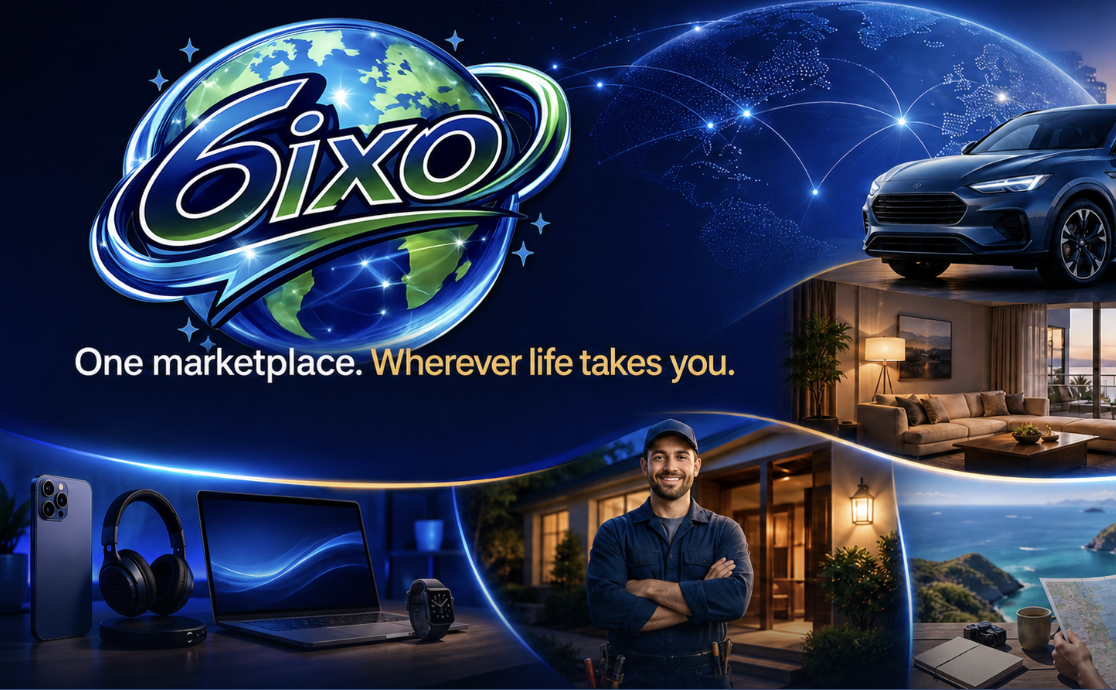
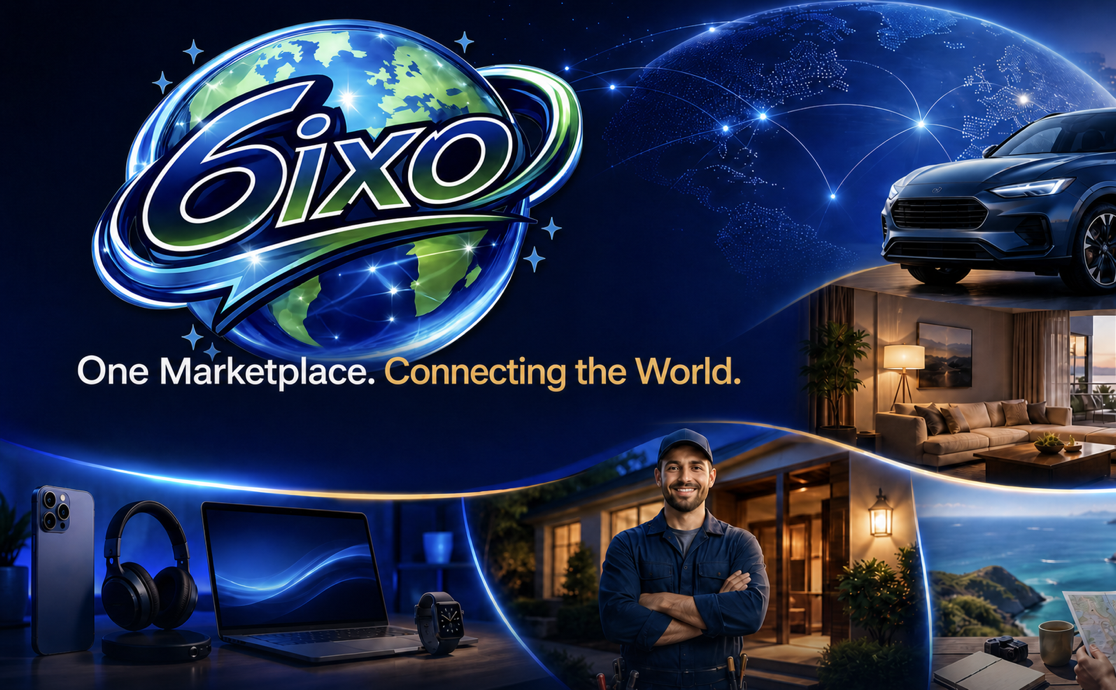
Update home marketplace slogan

diff --git a/index.html b/index.html
@@ -493,7 +493,7 @@
 	            </div>
 
 	            <section class="home-brand-artwork" aria-label="6ixo worldwide marketplace">
-	                <img src="assets/home/6ixo-marketplace-hero-concept.png" alt="6ixo — One marketplace, wherever life takes you" decoding="async" fetchpriority="high">
+	                <img src="assets/home/6ixo-marketplace-hero-concept.png?v=20260831" alt="6ixo — One Marketplace. Connecting the World." decoding="async" fetchpriority="high">
 	            </section>
 
 	            <!-- Main Search Section -->
